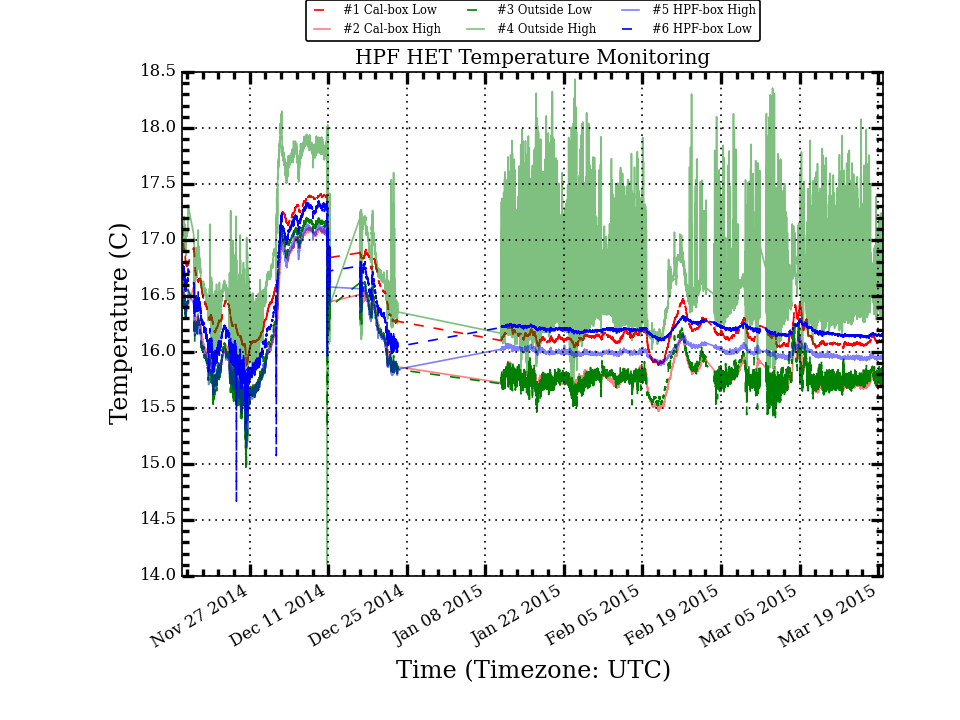
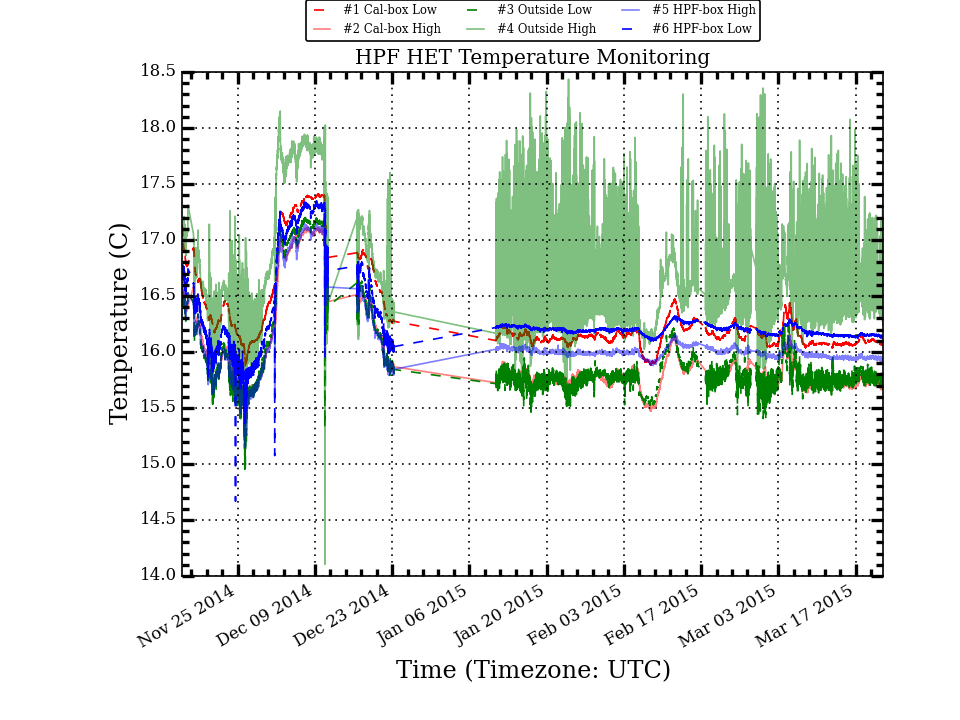
Update HPF Temp Plots

Changed region(s): [[0.1562, 0.0917, 0.9375, 0.9167], [0.1875, 0.0917, 0.375, 0.1222], [0.4062, 0.0917, 0.4375, 0.1222]]

diff --git a/research/hpf_temps/plots/LakeShoreLogTotal_stats.html b/research/hpf_temps/plots/LakeShoreLogTotal_stats.html
@@ -10,54 +10,54 @@
  </TR>
  <TR>
   <TD>Cal_Low</TD>
-  <TD>16.313</TD>
-  <TD>0.367</TD>
-  <TD>16.159</TD>
+  <TD>16.308</TD>
+  <TD>0.364</TD>
+  <TD>16.156</TD>
   <TD>17.410</TD>
   <TD>15.840</TD>
   <TD>1.570</TD>
  </TR>
  <TR>
   <TD>Cal_High</TD>
-  <TD>15.948</TD>
-  <TD>0.384</TD>
-  <TD>15.799</TD>
+  <TD>15.943</TD>
+  <TD>0.382</TD>
+  <TD>15.796</TD>
   <TD>17.114</TD>
   <TD>15.410</TD>
   <TD>1.704</TD>
  </TR>
  <TR>
   <TD>Out_Low</TD>
-  <TD>15.948</TD>
-  <TD>0.410</TD>
-  <TD>15.786</TD>
+  <TD>15.943</TD>
+  <TD>0.407</TD>
+  <TD>15.784</TD>
   <TD>17.201</TD>
   <TD>14.942</TD>
   <TD>2.259</TD>
  </TR>
  <TR>
   <TD>Out_High</TD>
-  <TD>16.662</TD>
-  <TD>0.463</TD>
-  <TD>16.533</TD>
+  <TD>16.658</TD>
+  <TD>0.460</TD>
+  <TD>16.526</TD>
   <TD>18.436</TD>
   <TD>14.104</TD>
   <TD>4.332</TD>
  </TR>
  <TR>
   <TD>HPF_High</TD>
-  <TD>16.091</TD>
-  <TD>0.326</TD>
-  <TD>16.000</TD>
+  <TD>16.088</TD>
+  <TD>0.324</TD>
+  <TD>15.998</TD>
   <TD>17.147</TD>
   <TD>15.149</TD>
   <TD>1.998</TD>
  </TR>
  <TR>
   <TD>HPF_Low</TD>
-  <TD>16.291</TD>
-  <TD>0.324</TD>
-  <TD>16.203</TD>
+  <TD>16.288</TD>
+  <TD>0.322</TD>
+  <TD>16.202</TD>
   <TD>17.356</TD>
   <TD>14.668</TD>
   <TD>2.688</TD>
